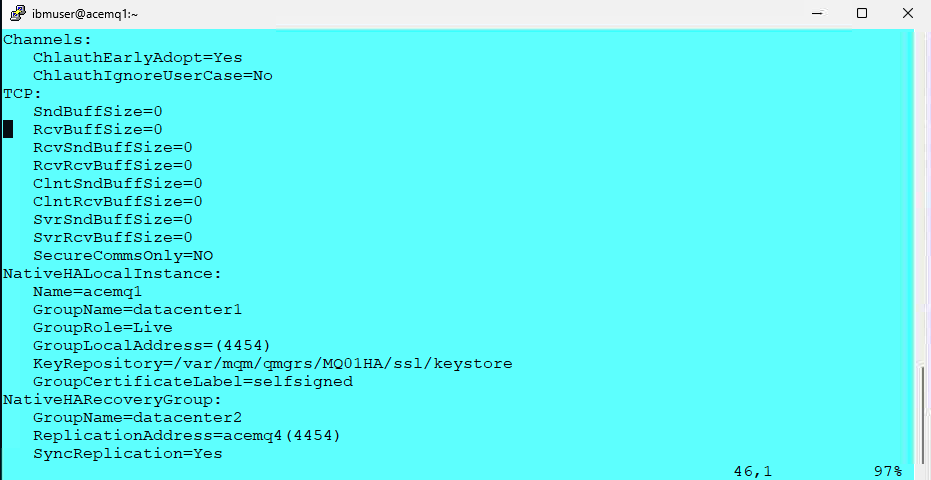
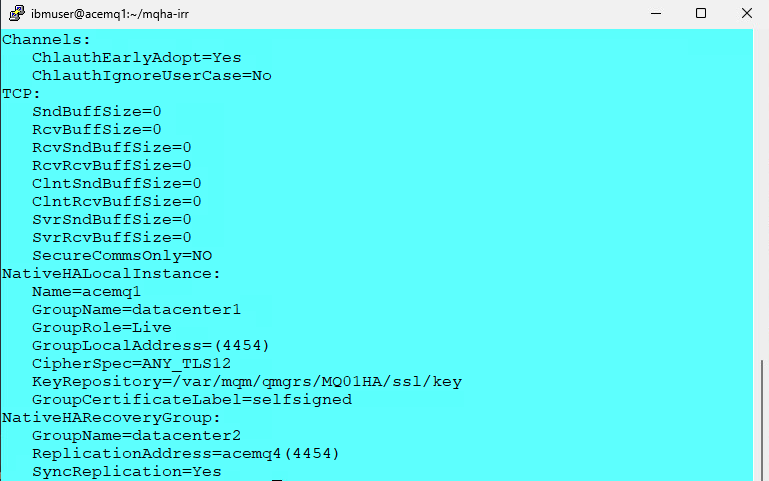
draft 5

diff --git a/nativeha-irr-rhel/README.md b/nativeha-irr-rhel/README.md
@@ -69,35 +69,57 @@ Click on the Windows image console to open it.
    ![alt text](images/win4.png)
    
 
-### 3a. Create Queue Manager <a name="create-live-qm"></a>
+### 3a. acemq1 - Create Live Queue Manager <a name="create-live-qm"></a>
 
-1. Run the following commands on each of the Virtual Machine acemq1. <br>
+1. Run the following commands <br>
 
    Create Queue Manager MQ01HA <br>
-```
+   ```
    crtmqm -lr `hostname` -lf 8192 -lp 10 -ls 10 -p 1414 MQ01HA
-```
-  ![alt text](images/crtmq1.png)
+   ```
+   ![alt text](images/crtmq1.png)
 
-### 3b. Create TLS Certificates <a name="tls-setup"></a>
 
-1. Run the below steps on **acemq1** to enable TLS on Queue Manager.  <br>
- Create TLS certificates. <br>
+
+### 3b. acemq4 - Create Recovery Queue Manager <a name="create-recovery-qm"></a>
+
+1. Run the following commands <br>
+
+   Create Queue Manager MQ01HA on the Recovery side <br>
+   ```
+   crtmqm -lr `hostname` -lf 8192 -lp 10 -ls 10 -p 1414 MQ01HA
+   ```
+   ![alt text](images/crtmq4.png)
+
+
+
+
+
+### 3c. acemq1 - Create TLS Certificates <a name="tls-setup"></a>
+
+1. Run the below steps to enable TLS on Queue Manager.  <br>
+ 
+   Create TLS certificates. <br>
    ```
    runmqakm -keydb -create -db /var/mqm/qmgrs/MQ01HA/ssl/key.kdb -pw passw0rd -stash
    ```
+   
    ```
    runmqakm -cert -create -db /var/mqm/qmgrs/MQ01HA/ssl/key.kdb -pw passw0rd -label selfsigned -dn CN=MQ01HA -size 2048
    ```
+   
    ```
    sudo chown -R :mqm /var/mqm/qmgrs/MQ01HA/ssl/key.*
    ```
    ```
    sudo chmod g+r /var/mqm/qmgrs/MQ01HA/ssl/key.*
    ```
-![alt text](images/crtmq1a.png)
 
-2. Copy all key.* files to acemq2 Virtual Machines using sftp.   Login to acemq2 using password *engageibm* <br>
+   ![alt text](images/crtmq1a.png)
+
+
+2. acemq1 - Copy all key.* files to acemq4 (Recovery) Virtual Machines using sftp. 
+
    ```
    sftp ibmuser@acemq4
    ```
@@ -108,22 +130,23 @@ Click on the Windows image console to open it.
    quit
    ```
 
-![alt text](images/crtmq1b.png)
+   ![alt text](images/crtmq1b.png)
 
 
-4. On acemq4 run the following commands. <br>
+4. acemq4 - Run the following commands. <br>
    ```
    sudo chown -R :mqm /var/mqm/qmgrs/MQ01HA/ssl/key.*
    ```
    ```
    sudo chmod g+r /var/mqm/qmgrs/MQ01HA/ssl/key.*
    ```
-![alt text](images/crtmq1c.png)
+   ![alt text](images/crtmq1c.png)
 
+   <br>
 
-### 3c. Update qm.ini <a name="update-live-qm-ini"></a>
+### 3c. acemq1 - Update Live qm.ini <a name="update-live-qm-ini"></a>
 
-1. On VM acemq1, we will add the TLS parameters as well as all 3 NativeHAInstances to qm.ini. 
+1. On VM acemq1, we will add the TLS parameters, NativeHARecoveryGroup stanza to qm.ini. 
 
    You can run the following command to look at the current **qm.ini** file.
 
@@ -133,30 +156,31 @@ Click on the Windows image console to open it.
    ![alt text](images/qm1.png)
 
    
-1. We will now from the **acemq1** putty session, run the following command. <br>
+1. run the following commands. <br>
 
-```
-./1-qm-ha.sh
-```
+   ```
+   cd ~/mqha-irr
+   ```
 
-<!--
+   ```
+   ./1-qm-ha.sh
+   ```
+
    ![alt text](images/qm1a.png)
--->
+
 
 
 1. When done run the following command on acemq1 instance to verify that the **qm.ini** was updated correctly. 
 
-```
-cat /var/mqm/qmgrs/MQ01HA/qm.ini
-```
+   ```
+   cat /var/mqm/qmgrs/MQ01HA/qm.ini
+   ```
 
-![alt text](images/qm1b.png)
-
-
+   ![alt text](images/qm1b.png)
 
 
 
-### 3d. Update qm.ini <a name="update-recovery-qm-ini"></a>
+### 3d. acemq4 - Update Recovery qm.ini <a name="update-recovery-qm-ini"></a>
 
    You can run the following command on **acemq4** to look at the current **qm.ini** file.
 